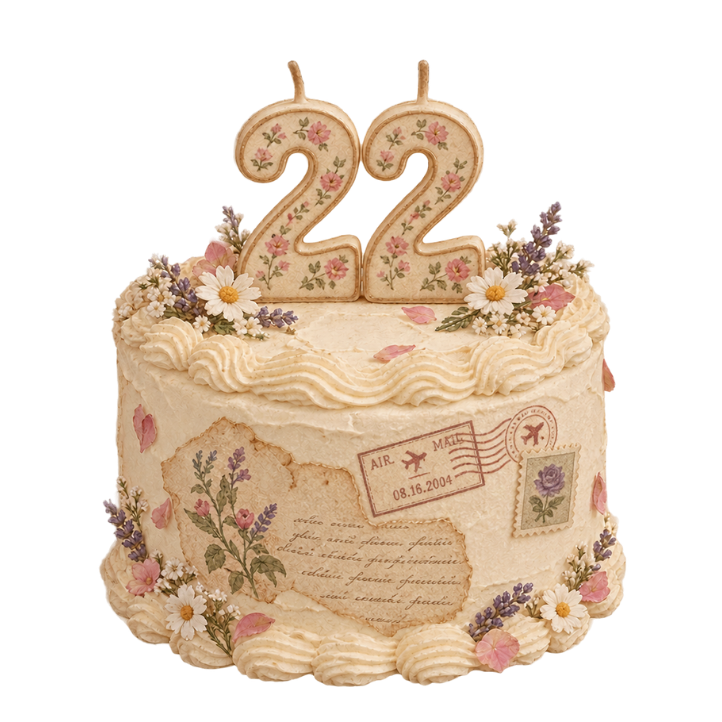
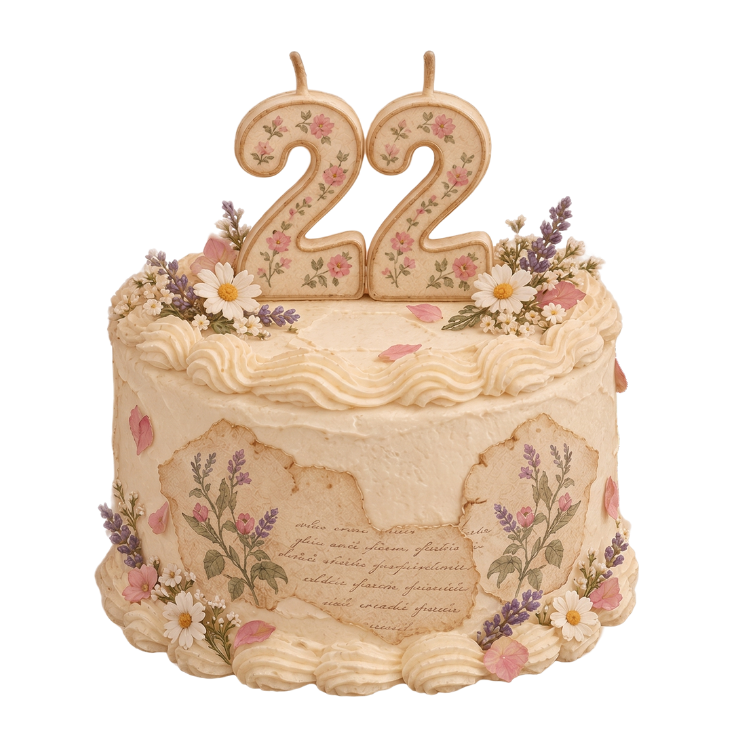
feat(cake): transition cake to clown meme illustration for 3 seconds before entering gift stage

Changed region(s): [[0.1219, 0.0609, 0.8837, 0.9751]]

diff --git a/assets/js/main.js b/assets/js/main.js
@@ -8,6 +8,8 @@ document.addEventListener('DOMContentLoaded', () => {
   const envelopeBox = document.getElementById('envelope-box');
   const waxSealBtn = document.getElementById('wax-seal-btn');
   const cakeStage = document.getElementById('cake-stage');
+  const cakeImageWrap = document.getElementById('cake-image-wrap');
+  const cakeClownReveal = document.getElementById('cake-clown-reveal');
   const candleLeft = document.getElementById('candle-left');
   const candleRight = document.getElementById('candle-right');
   const cakeStatusBadge = document.getElementById('cake-status-badge');
@@ -390,10 +392,21 @@ document.addEventListener('DOMContentLoaded', () => {
       // Celebrate with delicate floral sparkle burst
       triggerBirthdayCelebration();
 
-      // Direct smooth transition: curtain parts open & reveals gift stage
+      // Transition cake & butterflies to clown reveal
+      if (cakeImageWrap) {
+        cakeImageWrap.classList.add('cake-wrap-exit');
+      }
+      setTimeout(() => {
+        if (cakeImageWrap) cakeImageWrap.classList.add('hidden');
+        if (cakeClownReveal) {
+          cakeClownReveal.classList.remove('hidden');
+        }
+      }, 350);
+
+      // Show clown for 3 seconds, then proceed to main gift stage
       setTimeout(() => {
         proceedToGiftStage();
-      }, 750);
+      }, 3350);
     }
   }
 
@@ -511,6 +524,13 @@ document.addEventListener('DOMContentLoaded', () => {
       const meadowWrap = document.getElementById('page-bottom-meadow-wrap');
       if (sideBotanicals) sideBotanicals.classList.add('hidden');
       if (meadowWrap) meadowWrap.classList.add('hidden');
+
+      if (cakeImageWrap) {
+        cakeImageWrap.classList.remove('hidden', 'cake-wrap-exit');
+      }
+      if (cakeClownReveal) {
+        cakeClownReveal.classList.add('hidden');
+      }
 
       if (giftStage) giftStage.classList.add('hidden');
       if (cakeStage) {

diff --git a/assets/css/style.css b/assets/css/style.css
@@ -552,14 +552,53 @@ body {
   width: 100%;
   display: block;
   filter: drop-shadow(0 18px 40px rgba(45, 25, 12, 0.22));
+  transition: opacity 0.45s cubic-bezier(0.16, 1, 0.3, 1), transform 0.45s cubic-bezier(0.16, 1, 0.3, 1);
 }
 
-.cake-custom-img {
+.cake-image-wrap.cake-wrap-exit {
+  opacity: 0;
+  transform: scale(0.9) translateY(12px);
+  pointer-events: none;
+}
+
+/* Clown Reveal Character */
+.cake-clown-reveal {
+  position: relative;
+  width: 100%;
+  max-width: 380px;
+  margin: 10px auto 0;
+  display: flex;
+  justify-content: center;
+  align-items: center;
+  filter: drop-shadow(0 16px 36px rgba(45, 25, 12, 0.22));
+  animation: clownPopIn 0.55s cubic-bezier(0.34, 1.56, 0.64, 1) forwards;
+}
+
+.clown-custom-img {
   width: 100%;
   height: auto;
   display: block;
-  user-select: none;
-  -webkit-user-drag: none;
+  animation: clownFloat 2.6s ease-in-out infinite alternate;
+}
+
+@keyframes clownPopIn {
+  0% {
+    opacity: 0;
+    transform: scale(0.6) translateY(25px);
+  }
+  100% {
+    opacity: 1;
+    transform: scale(1) translateY(0);
+  }
+}
+
+@keyframes clownFloat {
+  0% {
+    transform: translateY(0) rotate(-1deg);
+  }
+  100% {
+    transform: translateY(-8px) rotate(1.5deg);
+  }
 }
 
 /* Floating Butterflies Beside Cake */

diff --git a/index.html b/index.html
@@ -400,8 +400,8 @@
         <h2 class="cake-title">Happy 22nd Birthday <span class="cake-highlight-name" id="cake-recipient-name">Aliya</span></h2>
       </div>
 
-      <div class="birthday-cake-container">
-        <div class="cake-image-wrap">
+      <div class="birthday-cake-container" id="birthday-cake-container">
+        <div class="cake-image-wrap" id="cake-image-wrap">
           <img src="assets/images/cake.png" alt="Kue Ulang Tahun Vintage 22" class="cake-custom-img" loading="eager">
 
           <!-- Floating Butterflies Beside Cake -->
@@ -437,6 +437,11 @@
             </div>
           </div>
 
+        </div>
+
+        <!-- Clown Reveal (Appears for 3s upon blowout) -->
+        <div class="cake-clown-reveal hidden" id="cake-clown-reveal">
+          <img src="assets/images/character/clown.png" alt="Queen and Clown" class="clown-custom-img">
         </div>
 
       </div>
